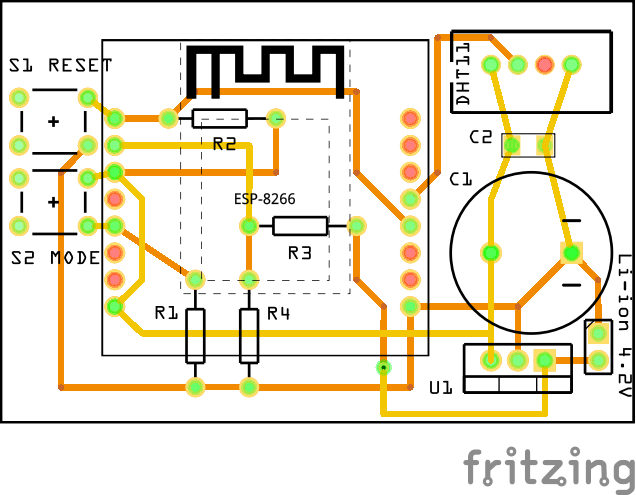
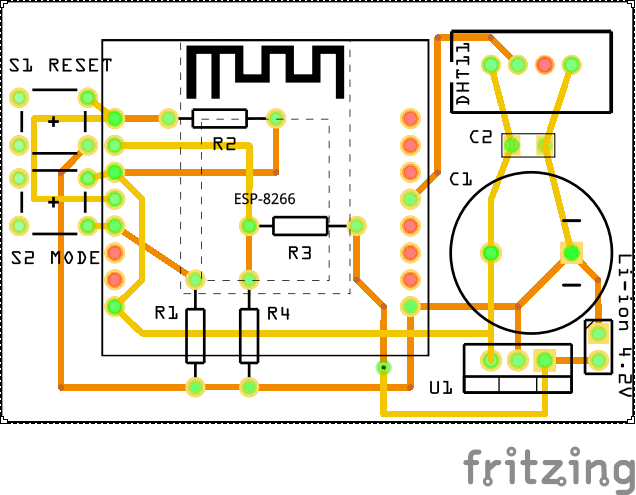
WakeUp fix

diff --git a/README.md b/README.md
@@ -25,12 +25,12 @@ The weather station is built around ESP-12F, which is an ESP8266 variant.
 
 The device uses following pins of ESP-12F MCU:
 * VCC, GND - for powering it up with 3.3V,
-* GPIO0 - for wake up circuitry,
+* RESET - for manual reset and wake up circuitry,
+* CH_PD - must be kept high,
 * GPIO4 - input from weather sensor,
 * GPIO14 - input for mode selection switch,
-* ADC - analog input for voltage measurement circuitry,
-* RESET - for manual reset and wake up circuitry,
-* CH_PD - must be kept high.
+* GPIO16 - for wake up circuitry,
+* ADC - analog input for voltage measurement circuitry.
 
 ### Power supply unit
 The device uses single Li-ion 4.2V cell to power itself. The voltage is lowered to nominal 3.3V with LDO voltage regulator (U1, Microship MCP1700-3302E/TO). This regular has a very low dropout voltage (178mV) and can deliver up to 250mA, which is sufficient for ESP8266 and DHT11 sensor. Two capacitors C1 and C2 are used to further stabilize the output voltage. This should ensure stable operation of ESP microcontroller during wake-up procedure.
@@ -45,7 +45,7 @@ Reset switch (S1) shorts reset pin and GND. Reset pin must be pulled up (R2).
 
 To ensure HTTP access to the firmware (ESP Easy) there is a special mode of operation that can be chosen during power-up or reset. When S2 switch is pressed for a few seconds after power-up or reset, the device enters config mode in which no deep sleep is used. Config mode can be turned off by subsequent reset (mode selection switch must be in released state).
 
-To ensure that ESP chip can wake up itself, RESET and GPIO0 pins must be connected.
+To ensure that ESP chip can wake up itself, RESET and GPIO16 pins must be connected.
 
 ### Sensor circuitry
 
